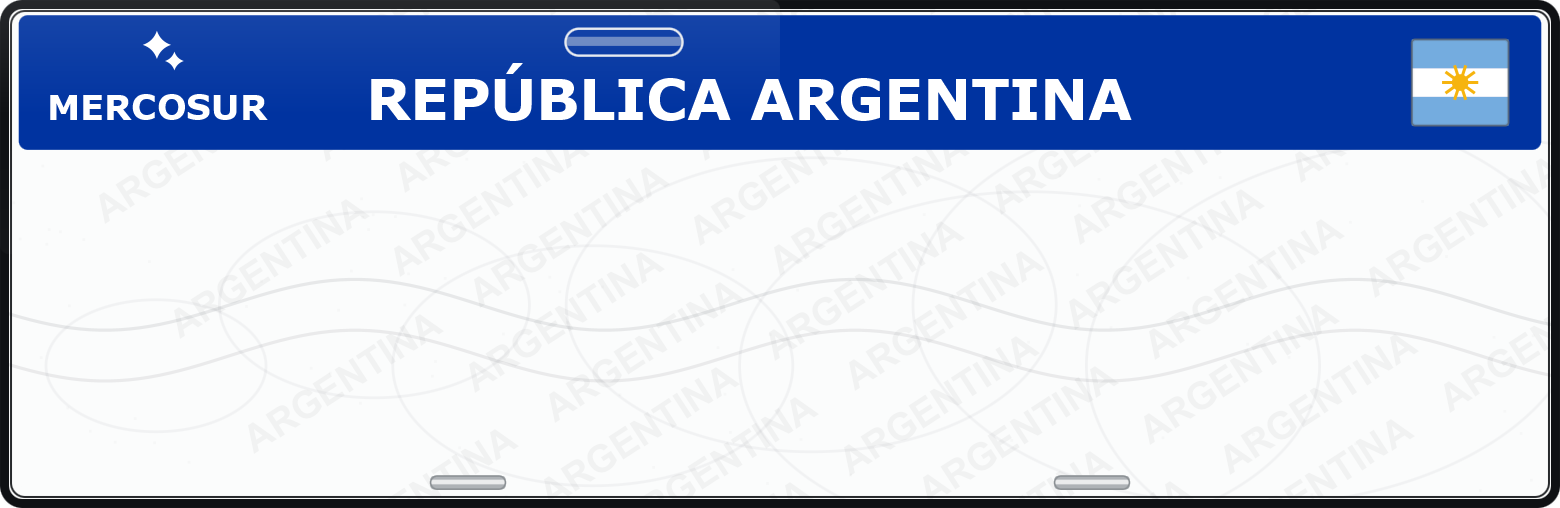
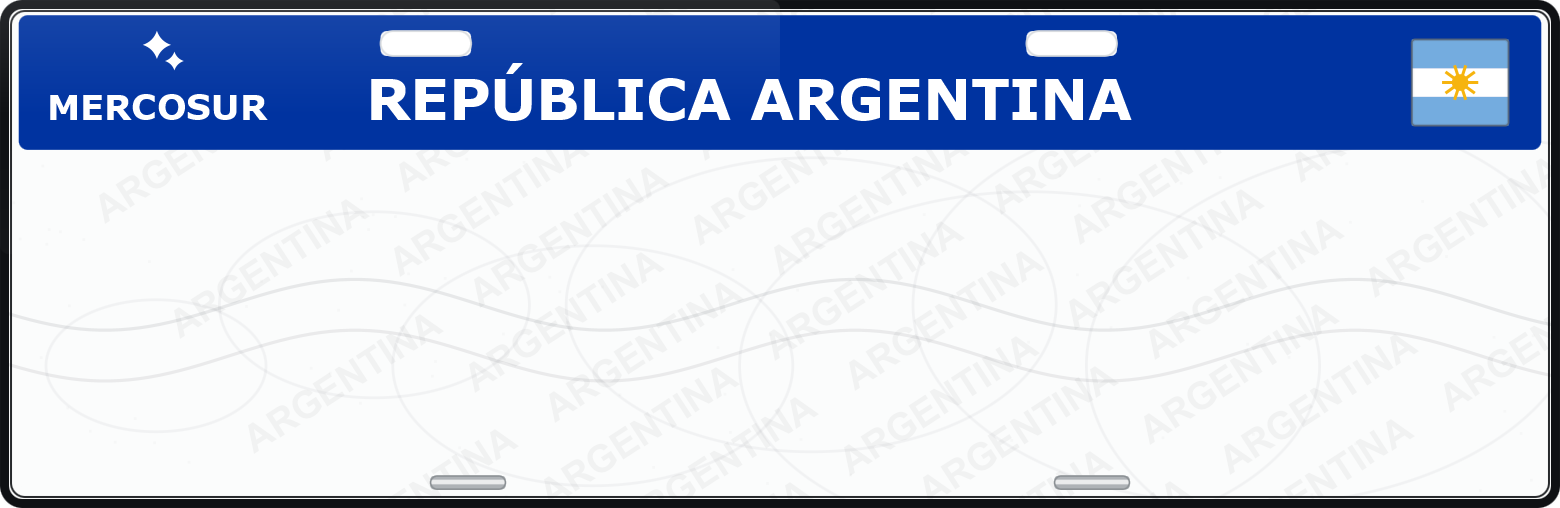
fix(chapa): agujeros reales en banda Mercosur y escudo nacional en placa pre-2016
- Banda Mercosur: dos ranuras blancas pasantes en el borde superior
  (27,3% y 68,7% del ancho), como la placa real; fuera la unica del 40%.
- Nacional 1995-2016 (y moto): escudo argentino real a color (PNG
  transparente de Wikimedia, simbolo oficial PD) horneado en los fondos.
- Regenerado arte: 4 bg + 5 muestras; chapas-layout.iss intacto.
- Paridad 432/1282; zip limpio 432/432 en modo dorado.

Changed region(s): [[0.3385, 0.0295, 0.4615, 0.1181], [0.6462, 0.0591, 0.7385, 0.1181], [0.2462, 0.0591, 0.3077, 0.1181]]

diff --git a/RELEASE_NOTES.md b/RELEASE_NOTES.md
@@ -1,4 +1,4 @@
-# DV Patentes CABA v1.1.0
+# DV Patentes CABA v1.1.1
 
 <img src="https://raw.githubusercontent.com/mikear/DV/main/docs/screenshot.png" alt="Aplicación calculando el dígito verificador de AB123CD con la chapa del dominio dibujada" width="560">
 
@@ -10,6 +10,22 @@ Hecha por **[mikear](https://github.com/mikear/DV)**. Código fuente:
 <https://github.com/mikear/DV>.
 
 **No oficial. Sin afiliación con AGIP.** Ver `DISCLAIMER.md`.
+
+## Novedades de 1.1.1
+
+### Escudo argentino real en la placa pre-2016
+
+- La placa nacional (1995-2016, con banda "ARGENTINA") lleva ahora el **escudo
+  argentino auténtico a color** — sol de mayo, laureles, gorro frigio — en
+  vez del emblema esquemático. También en la placa de moto. El PNG transparente
+  queda horneado en el arte embebido: la app no abre red ni lee archivos.
+
+### Agujeros de la banda Mercosur corregidos
+
+- El estilo Mercosur (2016+) dibuja ahora las **dos ranuras blancas pasantes**
+  del borde superior de la banda, en la posición real de la placa (~27% y ~69%
+  del ancho). Antes había una sola, desplazada: el agujero de la mitad
+  celeste superior quedaba tapado por la zona de la bandera. Auto y moto.
 
 ## Novedades de 1.1.0
 
@@ -97,6 +113,8 @@ node fuente/test-paridad.js
 
 ## Cambios anteriores
 
+- **1.1.0** — chapa del dominio: la ventana dibuja la patente en el estilo
+  correcto (5 estilos), arte embebido con transparencia, sin red.
 - **1.0.3** — jerarquía de acciones y copia simplificada; validación junto al
   campo; README reorganizado con badges y FAQ.
 - **1.0.2** — autoría visible en la ventana y en los metadatos del ejecutable.

diff --git a/CHANGELOG.md b/CHANGELOG.md
@@ -7,6 +7,29 @@ y este proyecto adhería a [Versionado Semántico](https://semver.org/lang/es/).
 
 ## [Unreleased]
 
+## [1.1.1] - 2026-10-20
+
+### Arreglado
+
+- **Agujeros de la banda Mercosur**: la placa 2016 tiene dos ranuras blancas
+  pasantes sobre el borde superior de la banda (a ~27% y ~69% del ancho); el
+  arte dibujaba una sola al centro, desplazada y perdida en la zona de la
+  bandera (el "agujero tapado" de la mitad celeste superior). Auto y moto.
+
+### Agregado
+
+- **Escudo nacional real** en la placa pre-2016 (nacional `ABC123` y moto
+  `123ABC`): la placa lleva ahora el escudo argentino auténtico a color
+  (sol de mayo, laureles, gorro frigio), integrado como PNG transparente en
+  los fondos generados. Fuente: Wikimedia Commons (símbolo oficial, dominio
+  público). La app sigue sin abrir red ni leer archivos: el arte va embebido
+  en el `.exe`.
+
+### Cambios
+
+- Regenerado el arte de 4 fondos y 5 muestras de control; `chapas-layout.iss`
+  no cambia (sin métricas de glifos nuevas). El binario sube ~60 KB.
+
 ## [1.1.0] - 2026-10-20
 
 ### Agregado

diff --git a/ALGORITMO_DV.md b/ALGORITMO_DV.md
@@ -175,6 +175,12 @@ La placa es **decorativa** (no interviene en el cálculo del DV):
   y las dos de moto en formato de dos filas.
 - **Procedencia**: el arte es una reimplementación propia del diseño de las
   chapas argentinas (banda azul Pantone 286, guilloché, tipografía con
-  relieve), generada con un exportador a PNG. El generador no es parte del
+  relieve), generada con un exportador a PNG. La placa nacional 1995-2016
+  lleva el **escudo nacional real** a color, integrado como PNG transparente
+  desde la fuente del exportador (Wikimedia Commons, símbolo oficial en
+  dominio público) y horneado en los fondos al exportar; el binario no lo lee
+  en tiempo de ejecución y no hay red en ningún punto. Los agujeros de la
+  banda Mercosur son las dos ranuras pasantes de la placa real (≈27% y ≈69%
+  del ancho). El generador no es parte del
   paquete público; los PNG resultantes sí viajan para poder reconstruir y
   auditar el binario.
